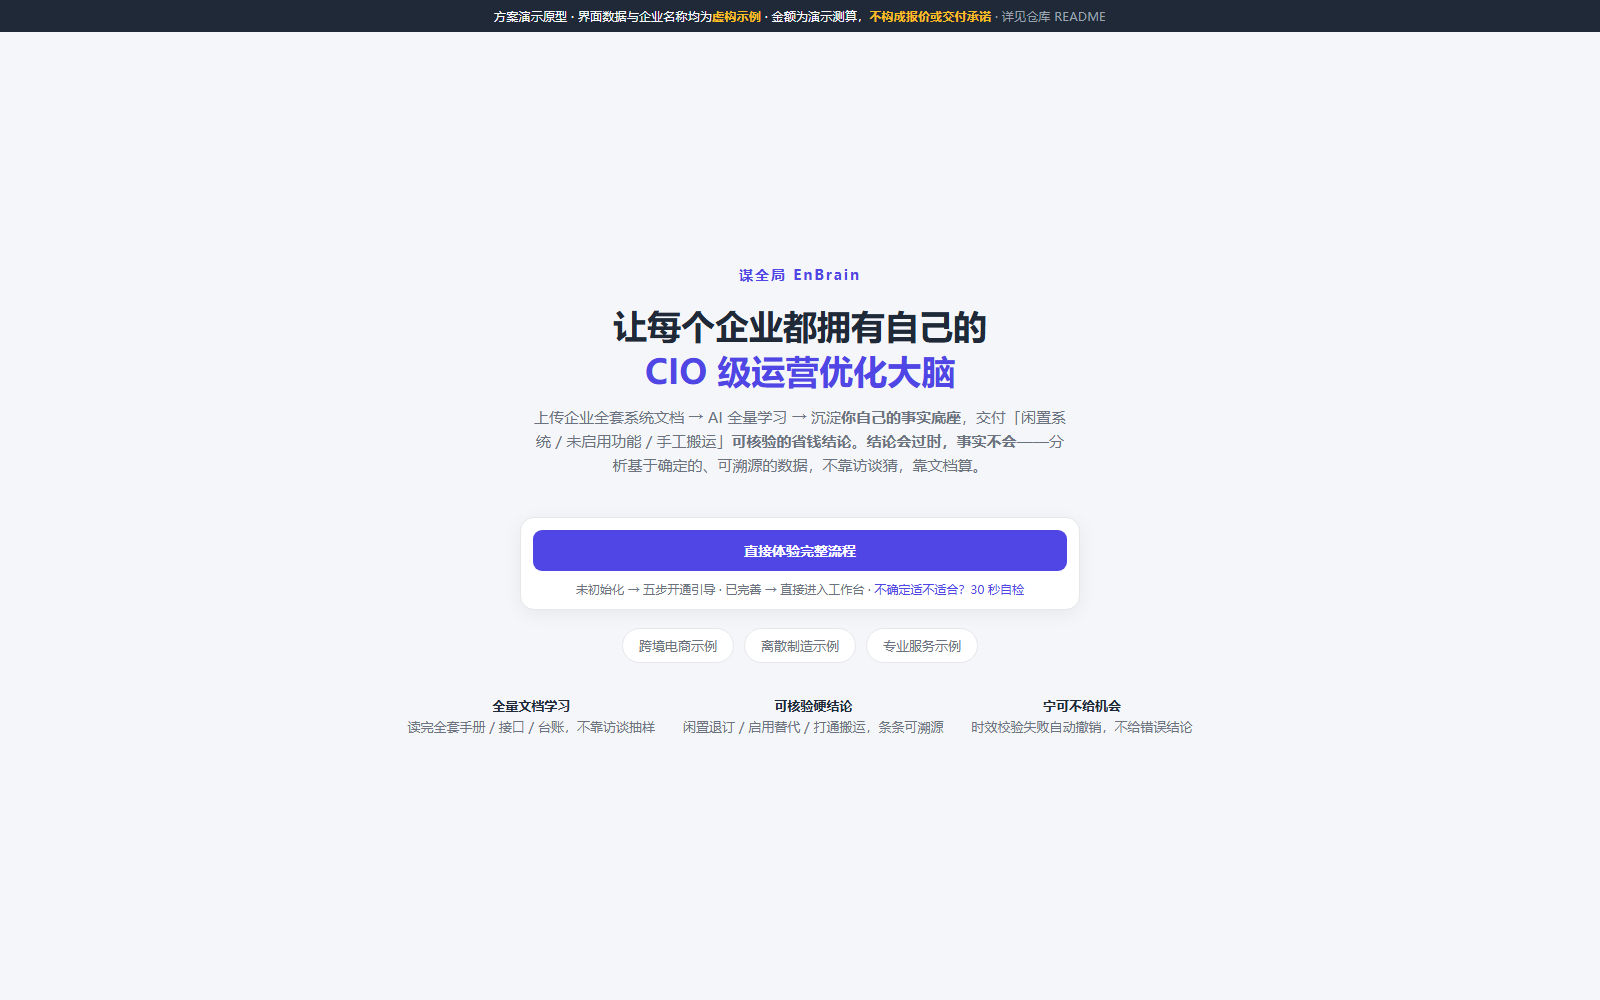
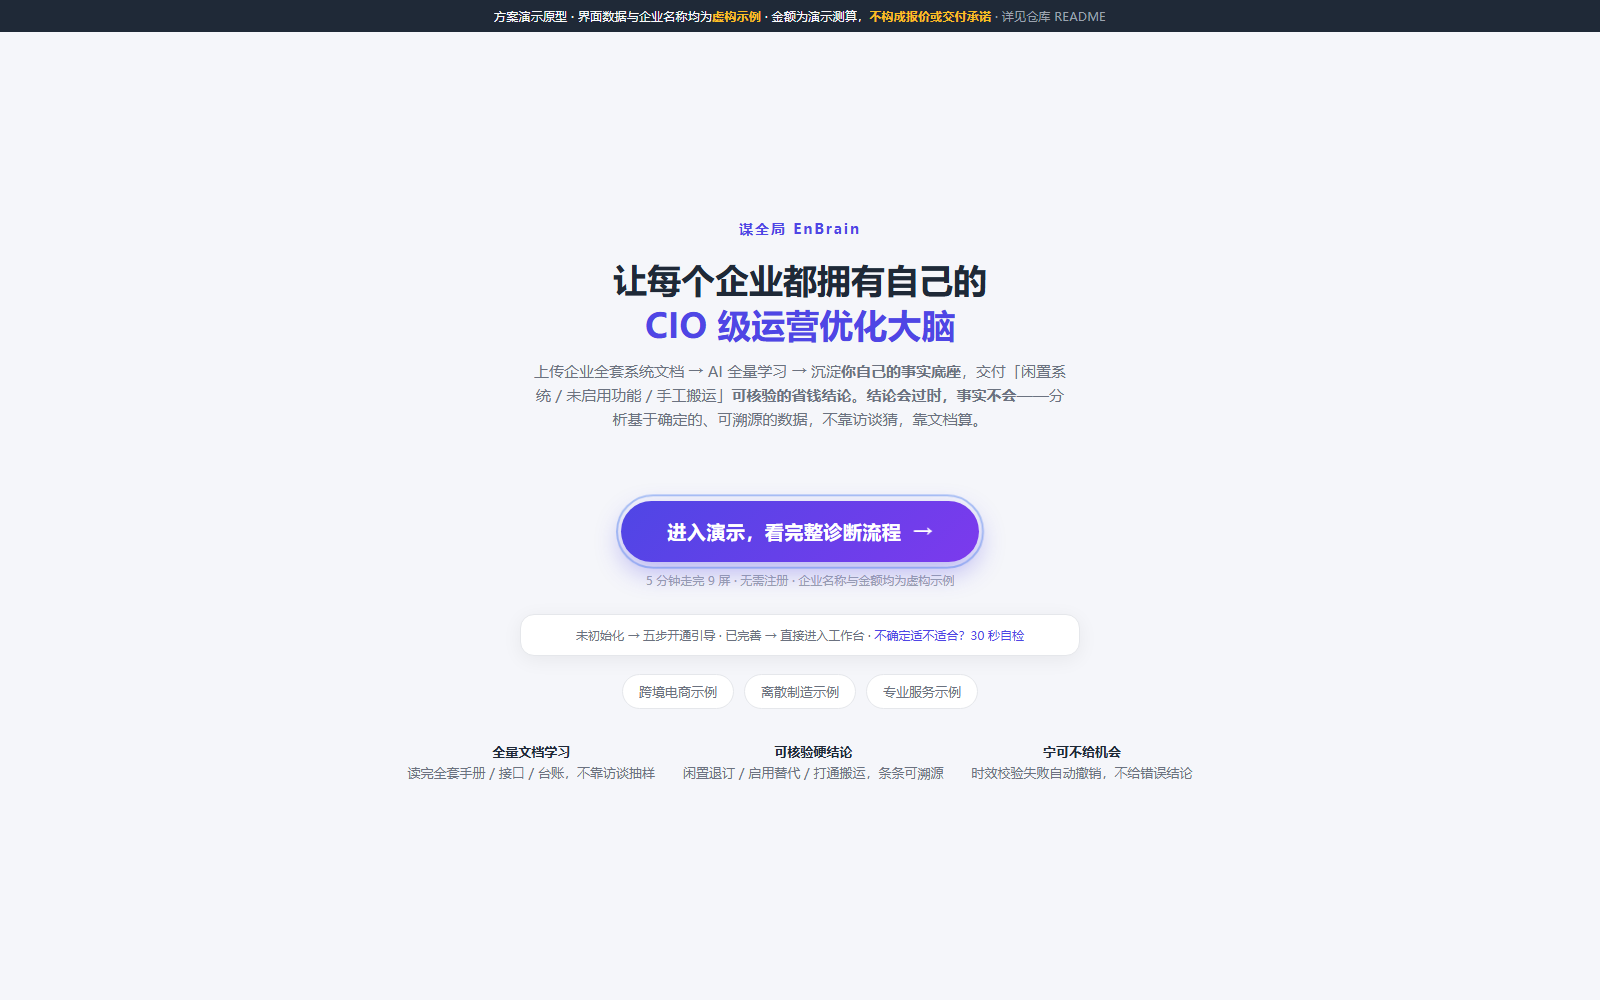
feat: 落地页主行动按钮强化为唯一强指引 (v1.3)

Changed region(s): [[0.3125, 0.217, 0.6875, 0.589], [0.25, 0.682, 0.75, 0.775], [0.375, 0.62, 0.625, 0.651]]

diff --git a/prototype.html b/prototype.html
@@ -51,6 +51,21 @@
   .landing-feats { margin-top:34px; display:flex; gap:28px; color:var(--text2); font-size:13px; }
   .landing-feats b { color:var(--text); display:block; margin-bottom:4px; }
 
+  /* ===== 主行动按钮（落地页唯一强指引：进入演示） ===== */
+  .cta-wrap { margin:30px 0 26px; display:flex; flex-direction:column; align-items:center; gap:10px; }
+  .cta-hero { position:relative; border:none; cursor:pointer; font-family:inherit; font-size:19px; font-weight:700; color:#fff; letter-spacing:.5px;
+    padding:18px 46px; border-radius:999px; background:linear-gradient(135deg,var(--primary) 0%,#7c3aed 100%);
+    box-shadow:0 10px 26px rgba(79,70,229,.36); transition:transform .18s ease, box-shadow .18s ease; }
+  .cta-hero:hover { transform:translateY(-2px); box-shadow:0 16px 34px rgba(79,70,229,.46); }
+  .cta-hero:active { transform:translateY(0); }
+  .cta-hero .cta-arrow { display:inline-block; margin-left:12px; animation:nudge 1.2s ease-in-out infinite; }
+  @keyframes nudge { 0%,100%{ transform:translateX(0); } 50%{ transform:translateX(7px); } }
+  .cta-hero::after { content:''; position:absolute; inset:-7px; border-radius:999px; border:2px solid rgba(37,99,235,.45); animation:halo 2.4s ease-out infinite; pointer-events:none; }
+  @keyframes halo { 0%{ opacity:.85; transform:scale(.985); } 70%{ opacity:0; transform:scale(1.05); } 100%{ opacity:0; transform:scale(1.05); } }
+  .cta-hint { font-size:12px; color:var(--text3); }
+  @media (max-width:560px) { .cta-hero { font-size:16px; padding:15px 28px; } }
+  @media (prefers-reduced-motion: reduce) { .cta-hero .cta-arrow, .cta-hero::after { animation:none; } }
+
   /* ============ 应用外壳 ============ */
   #app { display:none; height:100vh; }
   #sidebar { position:fixed; left:0; top:0; bottom:0; width:220px; background:var(--card); border-right:1px solid var(--border); overflow-y:auto; z-index:20; }
@@ -293,10 +308,11 @@
   <div class="logo">谋全局 EnBrain</div>
   <h1>让每个企业都拥有自己的<br><span>CIO 级运营优化大脑</span> <span class="pg-id">P0</span></h1>
   <div class="sub">上传企业全套系统文档 → AI 全量学习 → 沉淀<b>你自己的事实底座</b>，交付「闲置系统 / 未启用功能 / 手工搬运」<b>可核验的省钱结论</b>。<b>结论会过时，事实不会</b>——分析基于确定的、可溯源的数据，不靠访谈猜，靠文档算。</div>
+  <div class="cta-wrap">
+    <button class="cta-hero" onclick="enterApp()">进入演示，看完整诊断流程<span class="cta-arrow">→</span></button>
+    <div class="cta-hint">5 分钟走完 9 屏 · 无需注册 · 企业名称与金额均为虚构示例</div>
+  </div>
   <div class="search-box">
-    <div class="sb-btns">
-      <button class="btn-main" onclick="enterApp()">直接体验完整流程</button>
-    </div>
     <div style="font-size:12px;color:var(--text2)">未初始化 → 五步开通引导 · 已完善 → 直接进入工作台 · <a style="color:var(--primary);cursor:pointer" onclick="fitCheck()">不确定适不适合？30 秒自检</a></div>
   </div>
   <div class="examples">

diff --git a/CHANGELOG.md b/CHANGELOG.md
@@ -2,6 +2,13 @@
 
 本文件记录**对外发布物**的版本变化。内部台账（PRD 修改日志、评审记录等）不随仓发布。
 
+## v1.3 · 2026-10-25
+
+- **落地页主行动按钮重做**（进入演示的唯一强指引）：主色渐变药丸按钮 + 循环箭头 + 呼吸描边 + 悬停抬升，纯 CSS 实现并支持 `prefers-reduced-motion`
+- 副文案明确成本：「5 分钟走完 9 屏 · 无需注册 · 企业名称与金额均为虚构示例」
+- 原按钮与说明文字拆分：主按钮独立成块，30 秒自检入口归入下方信息条
+- 重拍 `docs/assets/shot-01-landing.png`
+
 ## v1.2 · 2026-10-25
 
 - README 新增 **「它能做什么」能力表**（六项能力 × 你获得什么）与 **「界面速览」**：12 张实拍截图（1600×1000，取自 `prototype.html` 实际渲染），分「三类视图 / 结论与边界 / 资产与执行 / 一线视角」四组
